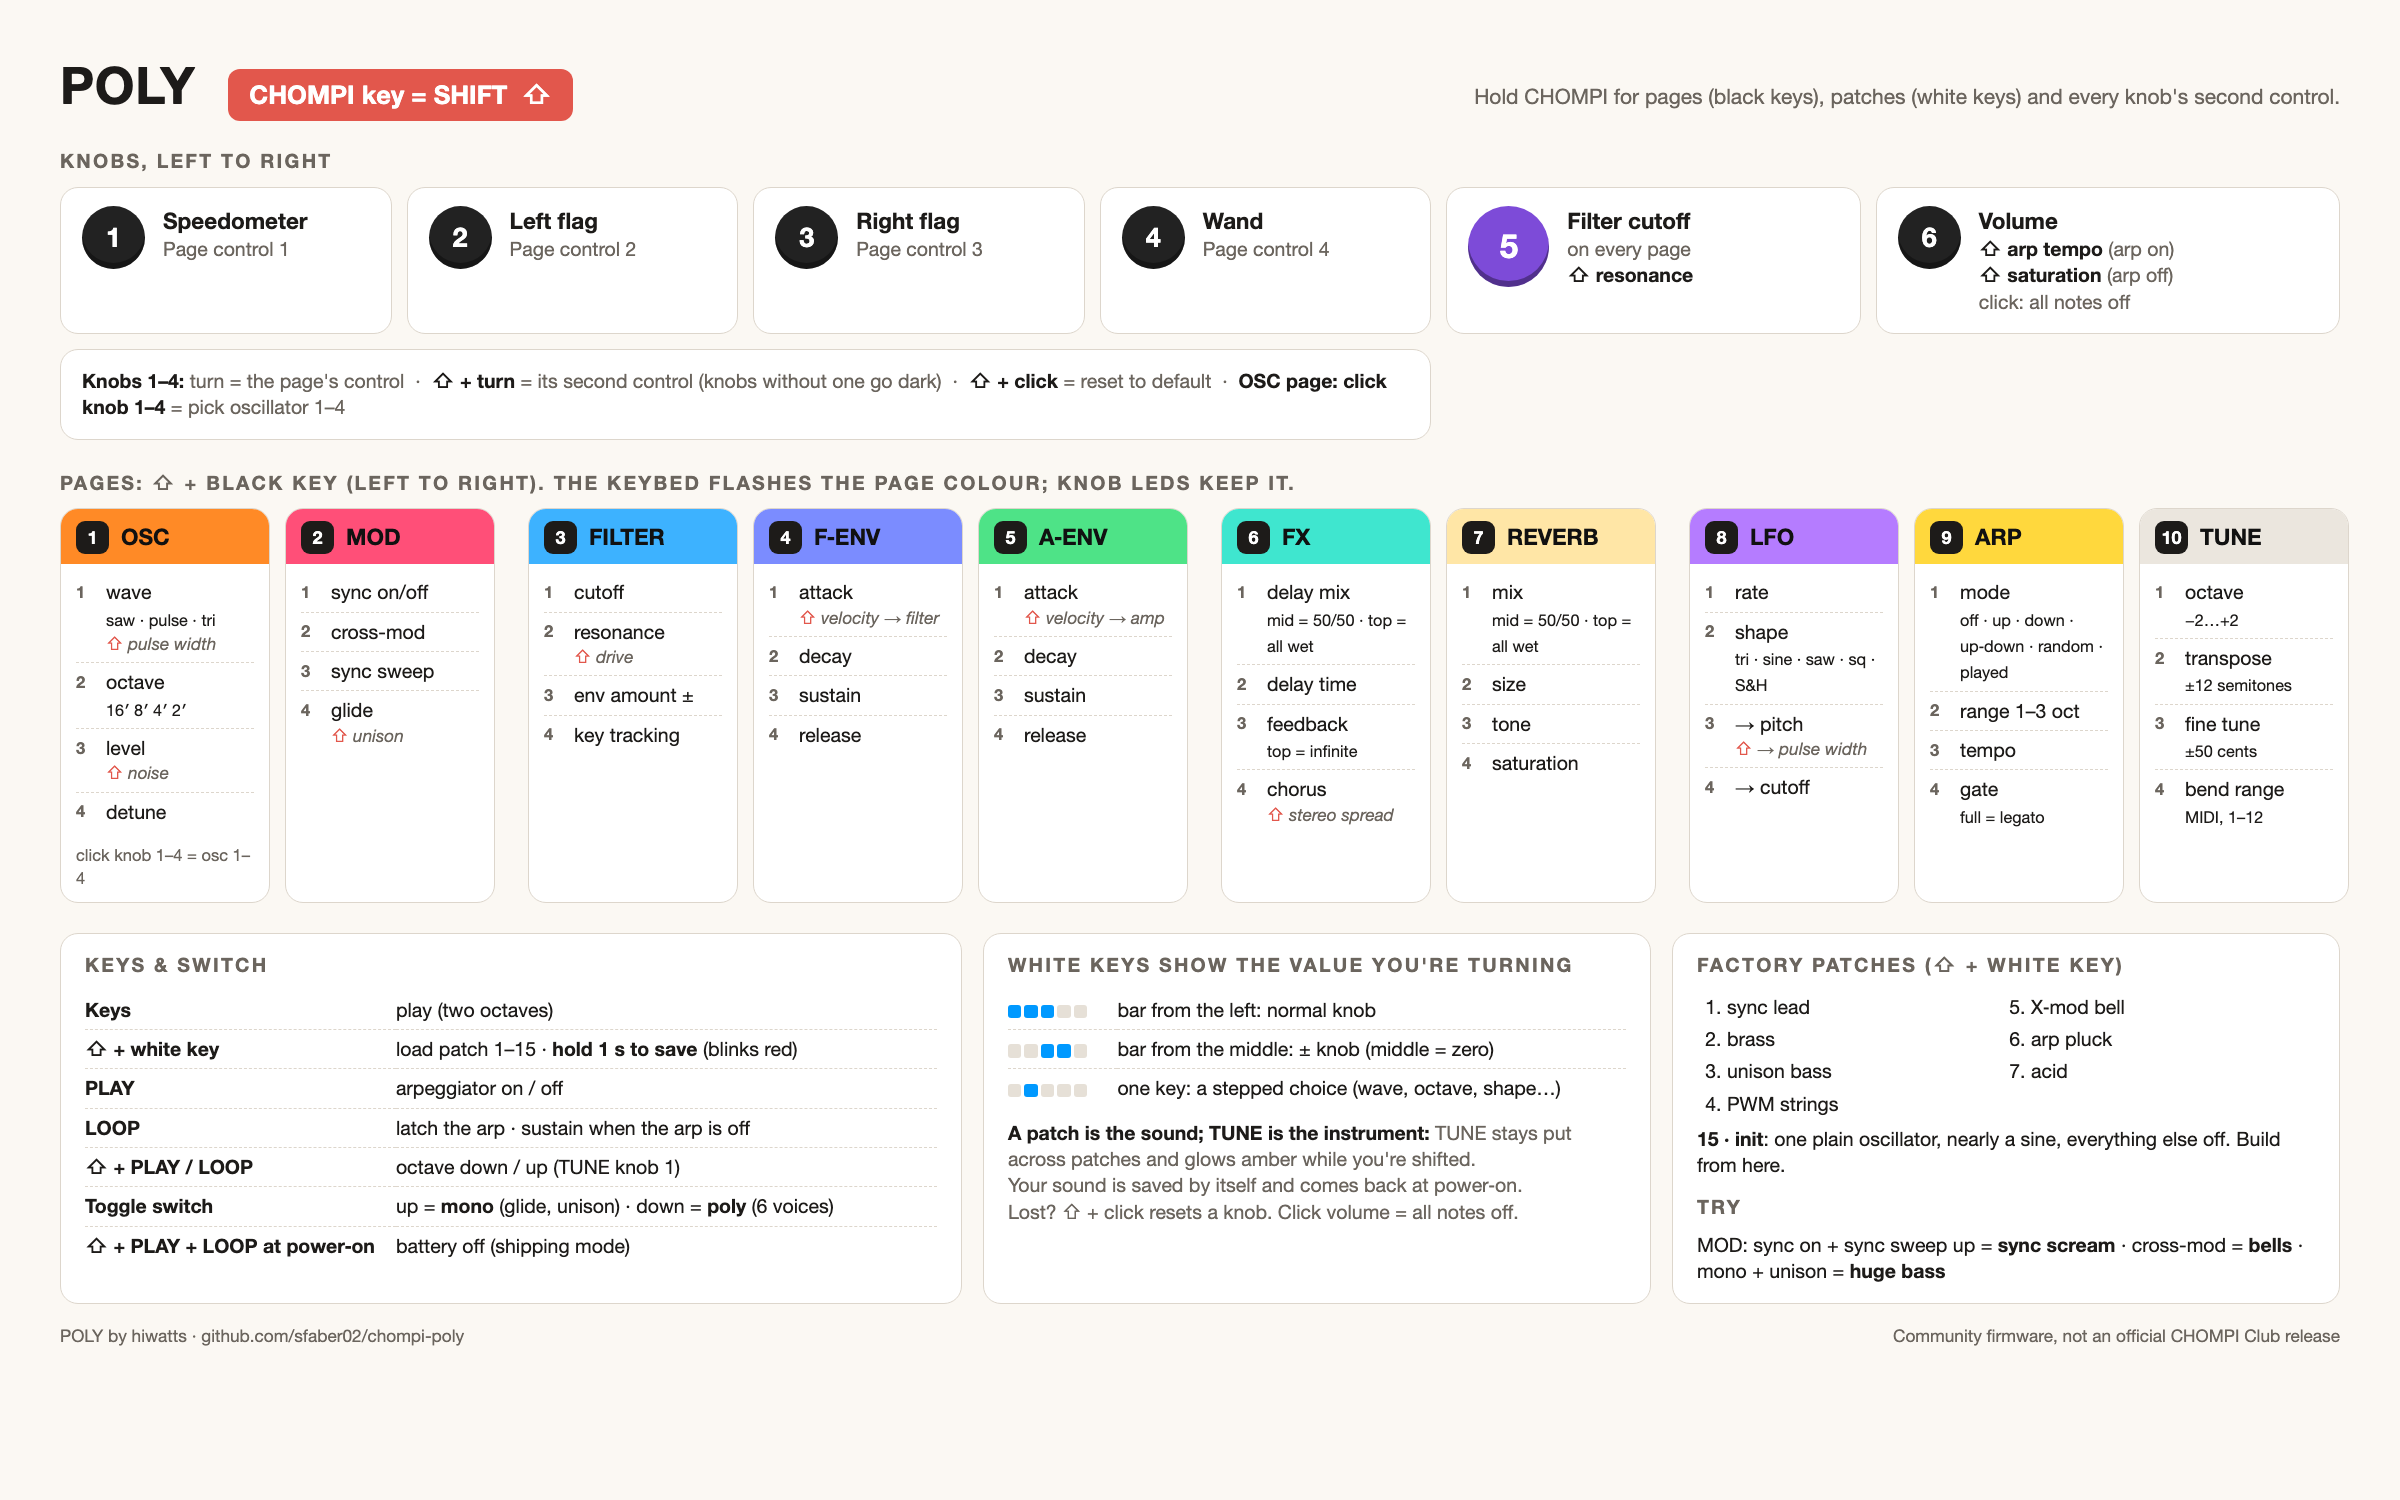
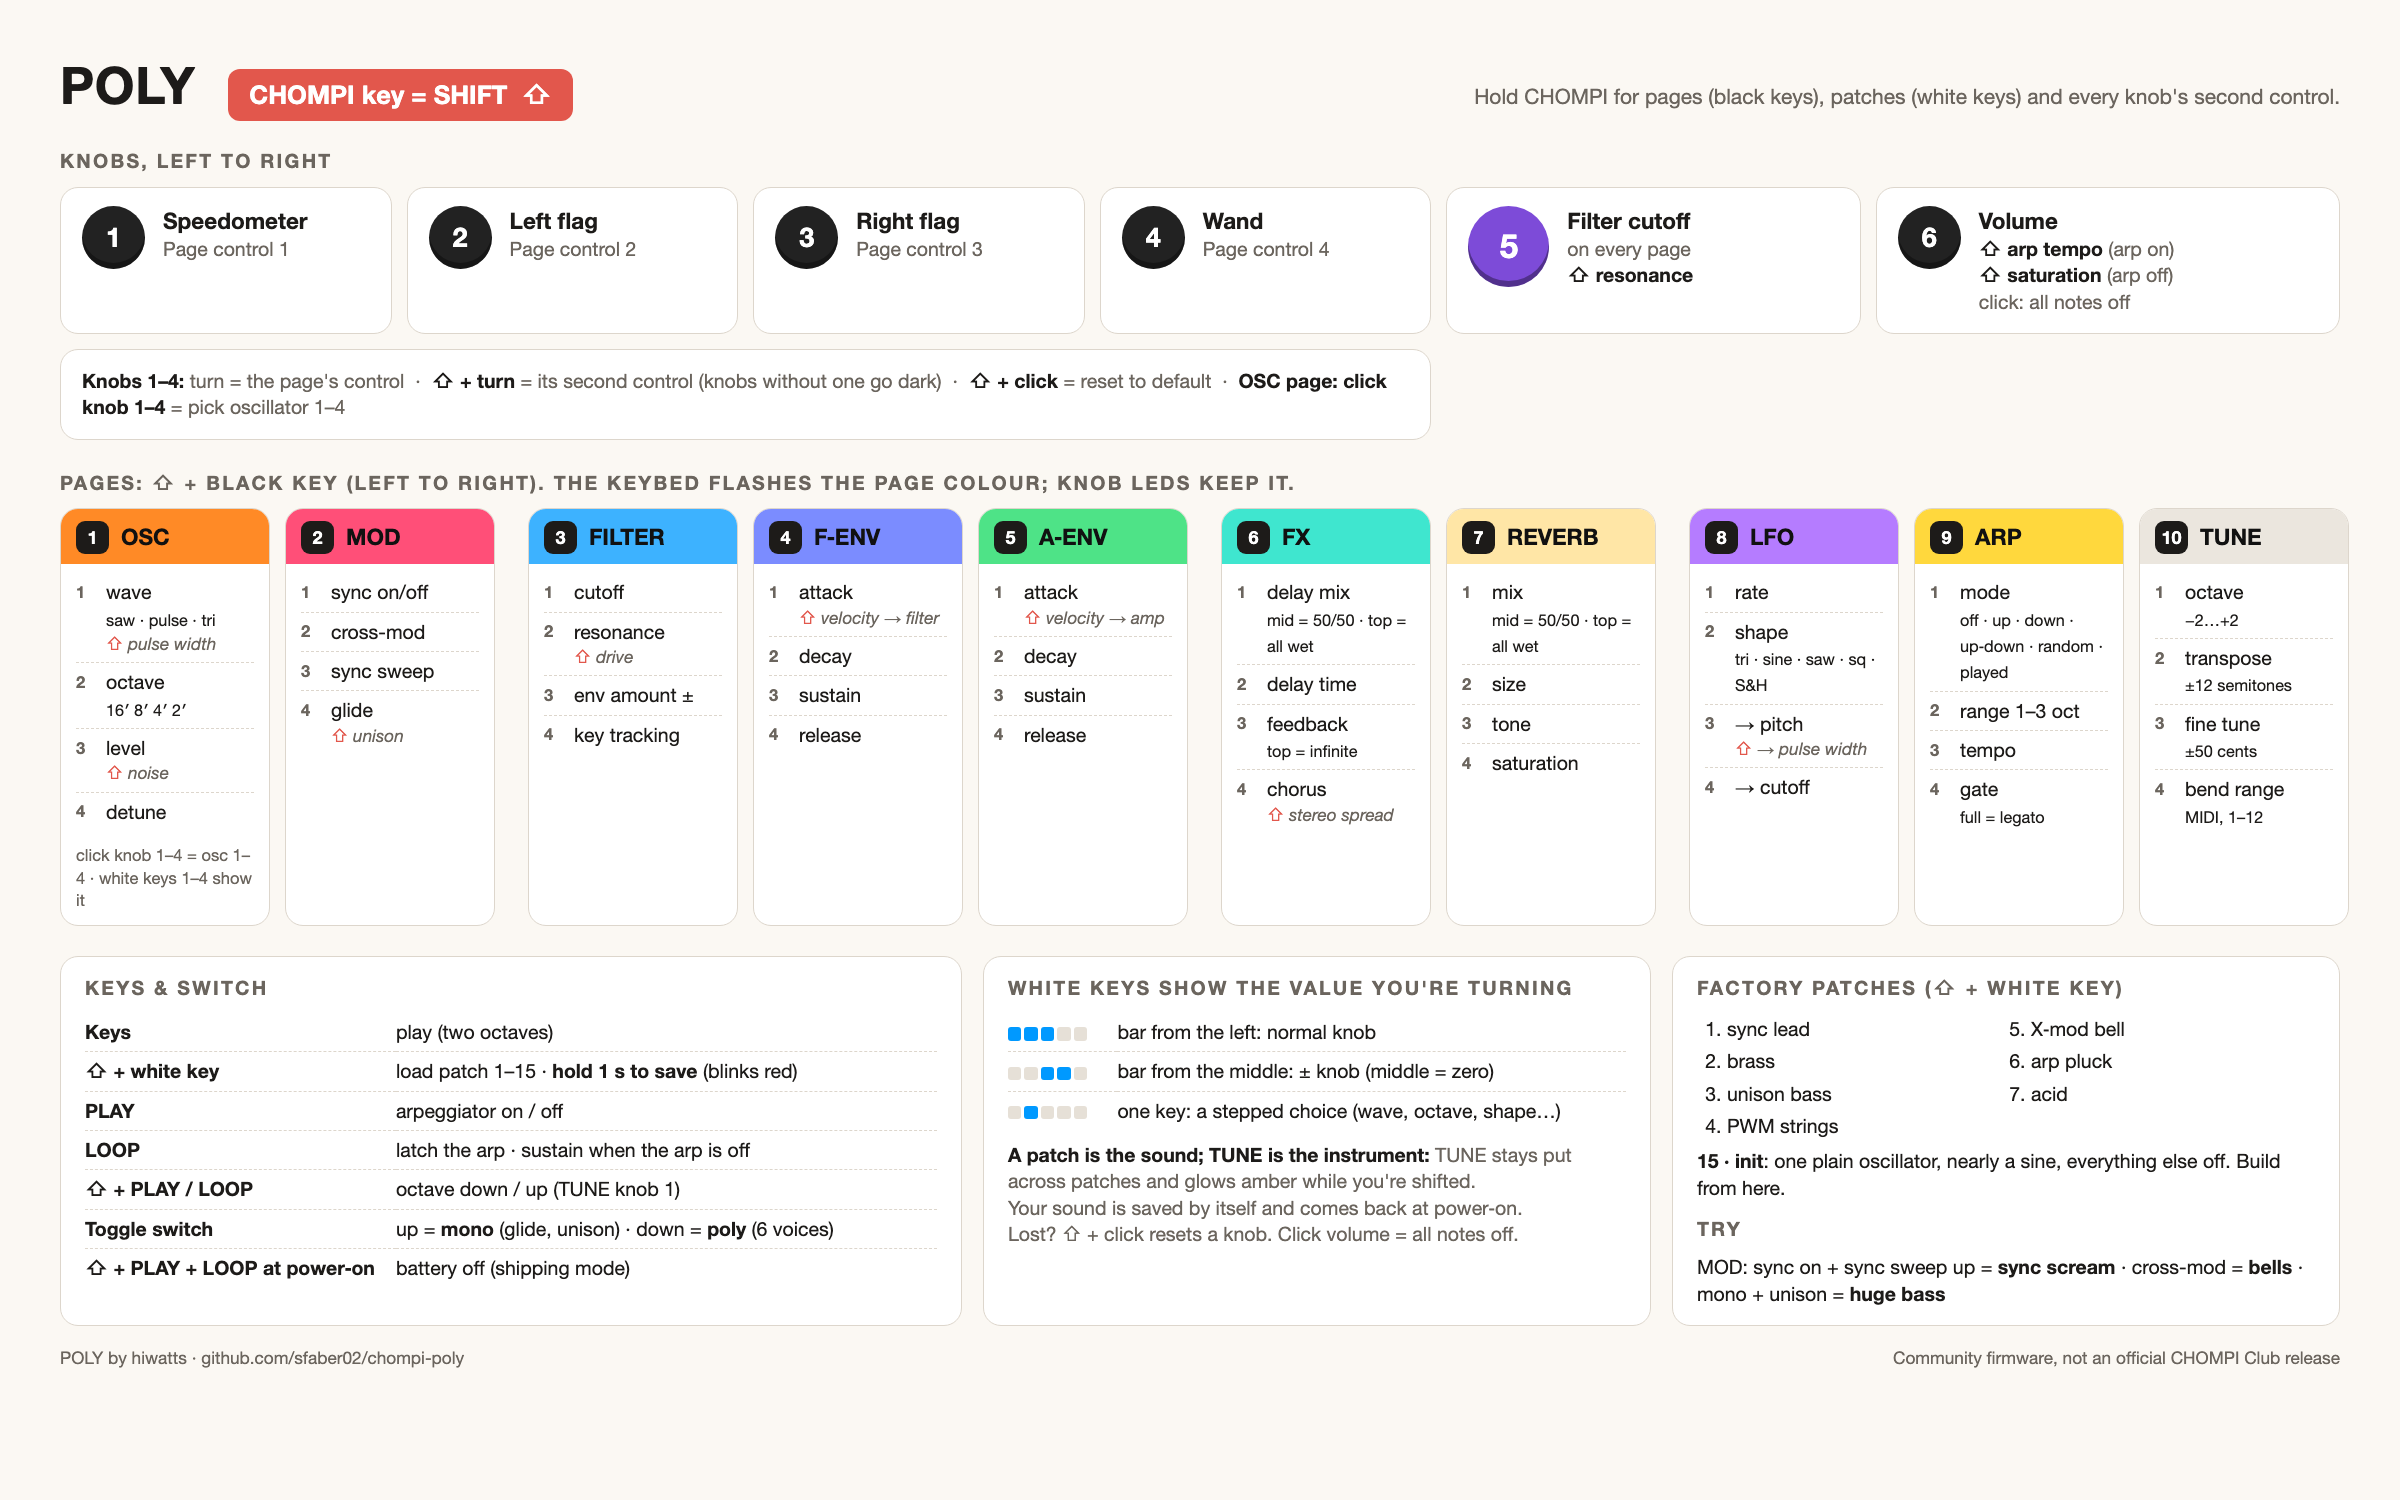
OSC page: white keys 1-4 always show the oscillators
The selection used to show for a second after a click and vanish. Now,
whenever the OSC page is up, keys 1-4 show all four oscillators in the
page colour: the selected one bright, the others dim (darkest when
their level is zero). A click flashes the new choice white. Notes you
play still light white on top.

diff --git a/docs/cheatsheet.html b/docs/cheatsheet.html
@@ -106,7 +106,7 @@
         <li><span class="k">3</span><span>level<em>noise</em></span></li>
         <li><span class="k">4</span><span>detune</span></li>
       </ol>
-      <div class="foot">click knob 1–4 = osc 1–4</div>
+      <div class="foot">click knob 1–4 = osc 1–4 · white keys 1–4 show it</div>
     </div>
     <div class="page"><div class="top" style="background:#ff4f78"><span class="n">2</span>MOD</div>
       <ol>

diff --git a/code/src/ui.h b/code/src/ui.h
@@ -603,16 +603,30 @@ class Ui
 
     void DrawPlaying(const float* c)
     {
-        // OSC page: briefly mark which oscillator the knobs edit.
-        const uint32_t now = System::GetNow();
-        if(page_ == PAGE_OSC && now - osc_shown_at_ < kShowValueMs)
+        // OSC page: white keys 1-4 are the four oscillators, always shown.
+        // The one the knobs edit is bright; the others are dim, and dimmer
+        // still when their level is zero, so you can also see which are
+        // sounding. A fresh click flashes the new choice full white.
+        if(page_ == PAGE_OSC)
         {
+            const uint32_t now = System::GetNow();
             for(int o = 0; o < kNumOscs; o++)
             {
-                const float b = o == osc_ ? 1.f : 0.1f;
-                SetSmtLedFloat(kKeyLed[static_cast<int>(kWhiteKeys[o])], c[0] * b, c[1] * b, c[2] * b);
+                const int led = kKeyLed[static_cast<int>(kWhiteKeys[o])];
+                if(o == osc_)
+                {
+                    if(now - osc_shown_at_ < 150)
+                        SetSmtLedFloat(led, 1.f, 1.f, 1.f);
+                    else
+                        SetSmtLedFloat(led, c[0], c[1], c[2]);
+                }
+                else
+                {
+                    const bool  on = engine_->params[OSC1_LEVEL + o * kOscParams] > 0.f;
+                    const float b  = on ? 0.18f : 0.04f;
+                    SetSmtLedFloat(led, c[0] * b, c[1] * b, c[2] * b);
+                }
             }
-            return;
         }
 
         for(int i = 0; i < 40; i++)

diff --git a/README.md b/README.md
@@ -36,7 +36,7 @@ It follows the stock CHOMPI idiom: **CHOMPI is shift.**
 | Knobs 1–4 | The current page's four main controls |
 | **CHOMPI + turn knob 1–4** | That knob's second control on this page (knobs without one go dark while CHOMPI is held) |
 | CHOMPI + click knob | Reset it to default |
-| Click knob 1–4 on the OSC page | Pick which oscillator the knobs edit |
+| Click knob 1–4 on the OSC page | Pick which oscillator the knobs edit. White keys 1–4 always show it: the selected one is bright, oscillators that are switched off are darkest |
 | Big purple knob | Filter cutoff, on every page. CHOMPI + turn: resonance |
 | Volume knob (right) | Master volume. CHOMPI + turn: arp tempo while the arp is on, saturation otherwise. Click: all notes off |
 | **CHOMPI + black key** | Choose a page (below). The keybed flashes the page colour |
